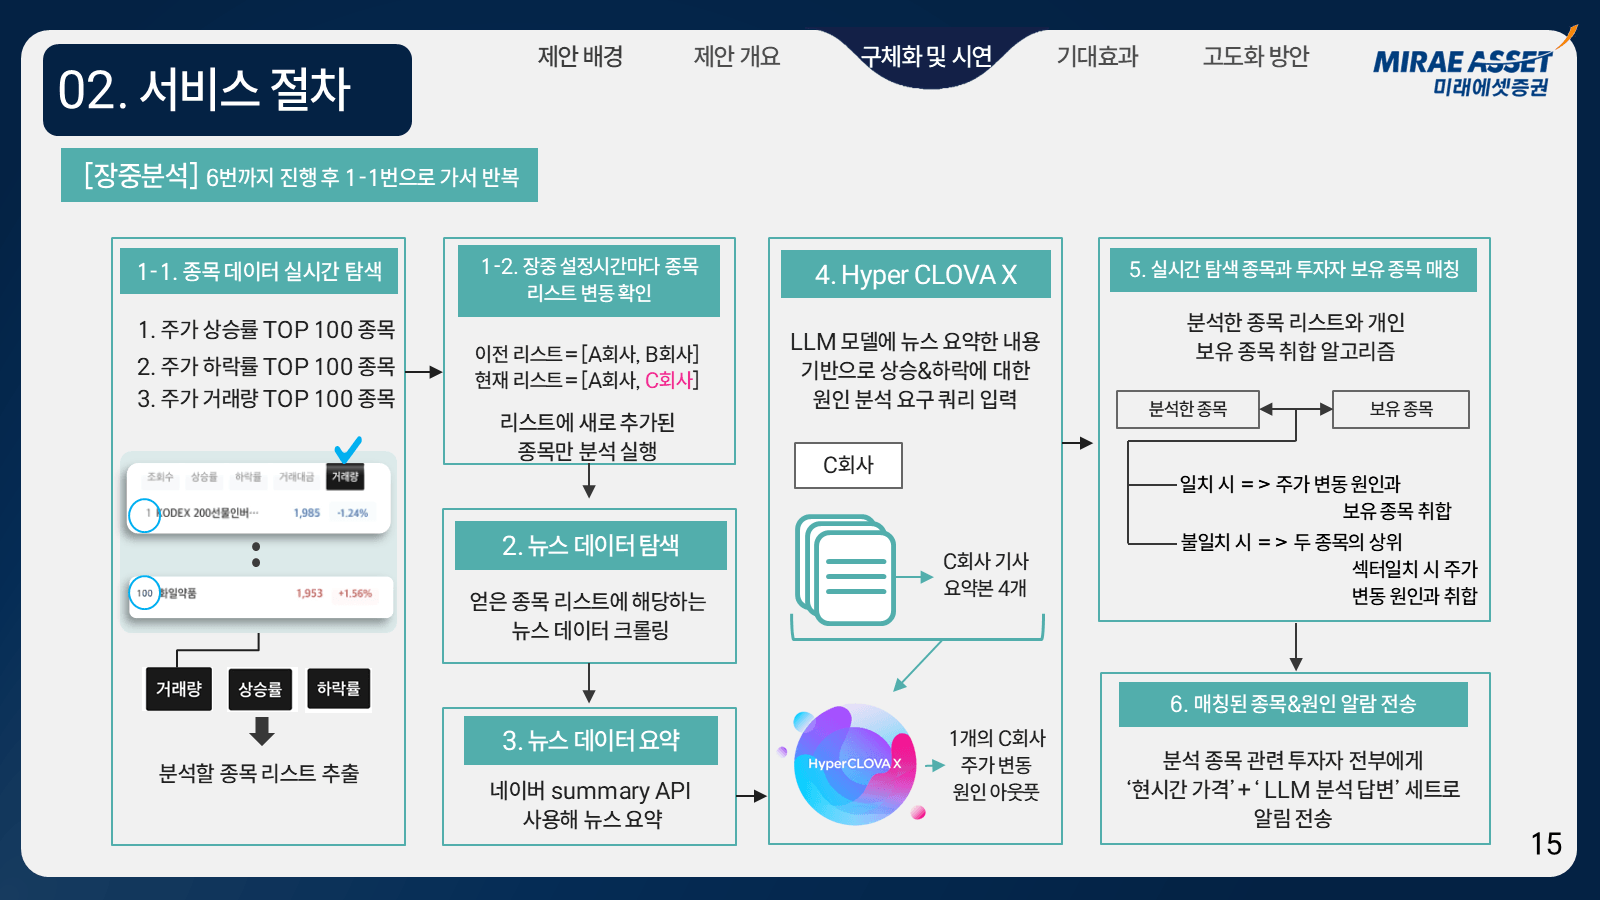
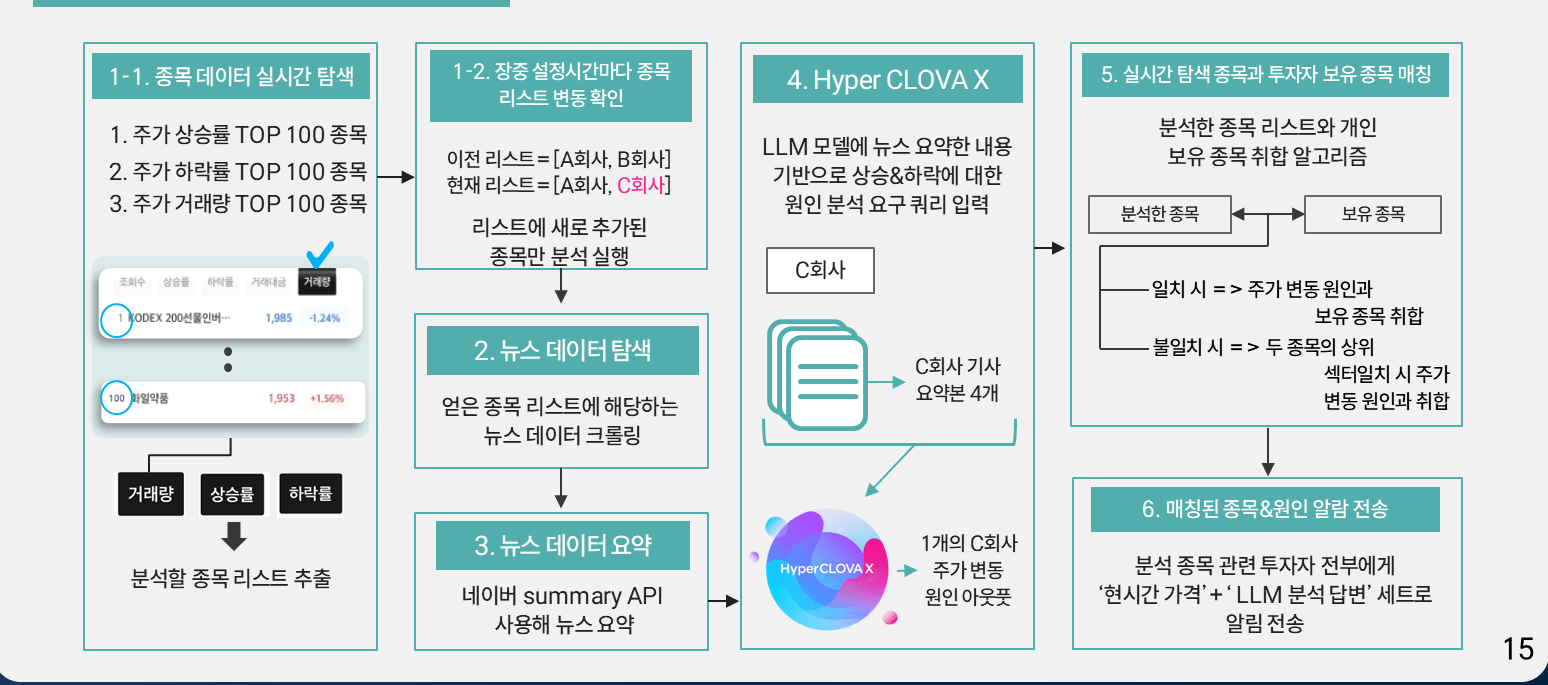
content: use cropped content instead of whole slides
Stripped the logos, nav strips and page numbers so the figures read like
figures rather than screenshots, and led with real output where the
decks had it: the LexAI chat screen and its benchmark table, the sign
language inference output and experiment setup, the Teachers persona
screen, and a real generated stock alert. Cropping also removes the
Mirae Asset branding, and the frame showing a study participant's face
is dropped.

diff --git a/src/content/projects.ts b/src/content/projects.ts
@@ -111,20 +111,27 @@ export const projects: Project[] = [
     links: [],
     figures: [
       {
-        src: "/figures/lexai-system.png",
-        alt: "LexAI 시스템 기능 구조도. 사용자 판별 모듈이 일반 사용자와 전문 사용자를 나누고, 각각 법률 문서 분석·전문가 탐색과 판례 리서치·사건 문서 저장으로 분기한다.",
+        src: "/figures/lexai-ui.png",
+        alt: "LexAI ChatBot 실제 화면. 사용자가 법률 질문을 입력하면 근거 조항과 함께 답변이 표시되고, 우측에 이전 대화 목록이 보인다.",
+        caption: "실제 화면 — 질문에 대한 답변과 근거를 함께 보여줍니다.",
+        width: 1520,
+        height: 700,
+      },
+      {
+        src: "/figures/lexai-eval.png",
+        alt: "변호사 시험 데이터 기준 모델별 평균 점수 표. GPT-4-Turbo+RAG 61.6, GPT-4-Turbo 58.3, Claude 3 Opus 54.7, Gemini 1.5 Pro 52.9, HyperCLOVA X 50.8, 학습을 거친 HyperCLOVA X 51.3, Baseline 25.1.",
         caption:
-          "시스템 구조 — 사용자 판별 모듈이 일반 사용자와 법률인을 나눠 서로 다른 기능으로 보냅니다.",
-        width: 1600,
-        height: 900,
+          "평가 결과 — 학습으로 50.8에서 51.3까지 올렸지만 RAG를 붙인 GPT-4-Turbo(61.6)에는 미치지 못했습니다.",
+        width: 1520,
+        height: 700,
       },
       {
         src: "/figures/lexai-chatbot.png",
         alt: "LexAI ChatBot 구조도. 민사·형사·행정법 원천 데이터를 판례·해석례·결정례·심결례는 임베딩 후 Vector DB에 넣어 RAG로, 법령은 LoRA 학습 데이터로 나눠 처리한다.",
         caption:
-          "ChatBot 구조 — 판례·해석례는 RAG로, 법령은 LoRA 학습으로 나눠 붙였습니다.",
-        width: 1600,
-        height: 900,
+          "구조 — 판례·해석례는 RAG로, 법령은 LoRA 학습으로 나눠 붙였습니다.",
+        width: 1520,
+        height: 700,
       },
     ],
     featured: true,
@@ -176,12 +183,18 @@ export const projects: Project[] = [
         height: 900,
       },
       {
-        src: "/figures/talktalk-stgcn.png",
-        alt: "골격 좌표를 노드와 엣지를 가진 그래프로 전처리한 뒤 GCN으로 공간 관계를, TCN으로 시간 변화를 학습하는 ST-GCN 구조도.",
-        caption:
-          "ST-GCN — 관절을 노드, 연결을 엣지로 두고 GCN이 공간을, TCN이 시간을 맡습니다.",
-        width: 1600,
-        height: 900,
+        src: "/figures/talktalk-output.png",
+        alt: "ST-GCN이 골격 그래프에서 '안녕?', '사랑', '나비'로 추론한 결과가 TTS를 거쳐 음성으로 변환되는 과정.",
+        caption: "실제 출력 — 골격 그래프에서 단어를 추론하고 음성으로 내보냅니다.",
+        width: 1065,
+        height: 820,
+      },
+      {
+        src: "/figures/talktalk-setup.png",
+        alt: "실험 조건 표. KSL-77 데이터셋 77개 클래스 20인, 8:2 분할, ST-GCN, MediaPipe Pose·Hand로 47개 키포인트(Pose 5, Hand 42), 배치 32, 300 에폭, 학습률 0.001, Adam, CrossEntropyLoss. 정확도 94.73%.",
+        caption: "실험 조건과 결과 — 47개 키포인트, 300 에폭, 정확도 94.73%",
+        width: 1065,
+        height: 820,
       },
     ],
     featured: true,
@@ -287,19 +300,20 @@ export const projects: Project[] = [
     links: [],
     figures: [
       {
+        src: "/figures/stock-example.png",
+        alt: "실제 생성된 알림 예시. 상승 종목의 5분 차트에 알림이 나간 시각이 표시되고, 옆에 중국 경기 부양책으로 ETF가 상승했다는 원인 분석 문장이 붙어 있다.",
+        caption:
+          "실제 알림 — 가격이 움직인 시점과 그 이유가 함께 나갑니다.",
+        width: 1548,
+        height: 685,
+      },
+      {
         src: "/figures/stock-flow.png",
         alt: "서비스 절차 흐름도. 상승률·하락률·거래량 상위 100 종목을 실시간 탐색하고, 뉴스를 크롤링·요약한 뒤 HyperCLOVA X로 원인을 분석해 투자자 보유 종목과 매칭하고 알림을 보낸다.",
         caption:
           "서비스 절차 — 급변 종목 탐지에서 뉴스 요약, 원인 분석, 보유 종목 매칭, 알림 전송까지",
-        width: 1600,
-        height: 900,
-      },
-      {
-        src: "/figures/stock-llm.png",
-        alt: "요약된 뉴스를 HyperCLOVA X에 넣어 기업별 주가 변동 원인을 분석하고 DB에 저장하는 과정.",
-        caption: "원인 분석 — 기업별로 요약된 기사를 묶어 변동 원인을 생성합니다.",
-        width: 1600,
-        height: 900,
+        width: 1548,
+        height: 685,
       },
     ],
   },
@@ -349,20 +363,20 @@ export const projects: Project[] = [
     links: [],
     figures: [
       {
+        src: "/figures/teachers-ui.png",
+        alt: "티처스 메인 화면. 여러 강사 페르소나가 카드로 나열되고, 선택한 페르소나의 음성 미리듣기와 소개를 확인한 뒤 강의를 시작할 수 있다.",
+        caption:
+          "실제 화면 — 페르소나를 고르고 목소리를 미리 들은 뒤 강의를 시작합니다.",
+        width: 1452,
+        height: 585,
+      },
+      {
         src: "/figures/teachers-architecture.png",
         alt: "티처스 아키텍처. 데이터 처리 계층에서 강의 자료를 임베딩해 Vector DB에 넣고, 실시간 학습 계층에서 CLOVA Voice와 음성 인식을 거쳐 HyperCLOVA X와 대화한다.",
         caption:
           "전체 아키텍처 — 위쪽이 자료 처리, 아래쪽이 실시간 음성 대화 경로입니다.",
-        width: 1536,
-        height: 864,
-      },
-      {
-        src: "/figures/teachers-preprocess.png",
-        alt: "데이터 전처리 흐름. PDF·Text·Wav·Search 입력을 받아 음성은 CLOVA Speech Recognition으로 텍스트화하고, 자료가 없으면 웹 검색으로 수집한 뒤 CLOVA Segmentation으로 의미 단위 분할해 임베딩한다.",
-        caption:
-          "데이터 전처리 — 음성은 STT로, 자료가 없으면 웹 검색으로 채우고, 의미 단위로 잘라 색인합니다.",
-        width: 1536,
-        height: 864,
+        width: 1452,
+        height: 620,
       },
     ],
   },
